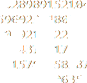
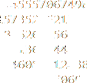
New Cross-Sprite concatenation for RND effect / Main Digitalized SpriteSheet added.

diff --git a/Source/Sprite_Vert_Align.py b/Source/Sprite_Vert_Align.py
@@ -1,15 +1,18 @@
 from PIL import Image
 
 # List of image paths
-frames = 33
+frames = 12 + 63
 image_paths = []
 
 ## Cross-Sprite framing
-for i in range(0,frames) :
+for j in range(1, frames - 63 + 1) :
+    image_paths.append("Assets\\Characters\\Pi\\Digitalized_PI\\Main\\mainPI_" + str(j) + ".png")
+
+for i in range(0, frames - 12) :
     if i < 10 :
-        image_paths.append("Assets\\Characters\\Pi\\Digitalized_PI\\Digit_PI_Rotation\\Frame_0" + str(i) + ".png")
+        image_paths.append("Assets\\Characters\\Pi\\Digitalized_PI\\Digit_PI_Rotation\\SpriteSheet\\PI_0" + str(i) + ".png")
     else :
-        image_paths.append("Assets\\Characters\\Pi\\Digitalized_PI\\Digit_PI_Rotation\\Frame_" + str(i) + ".png")
+        image_paths.append("Assets\\Characters\\Pi\\Digitalized_PI\\Digit_PI_Rotation\\SpriteSheet\\PI_" + str(i) + ".png")
         
 
 # Open all images and get their sizes
